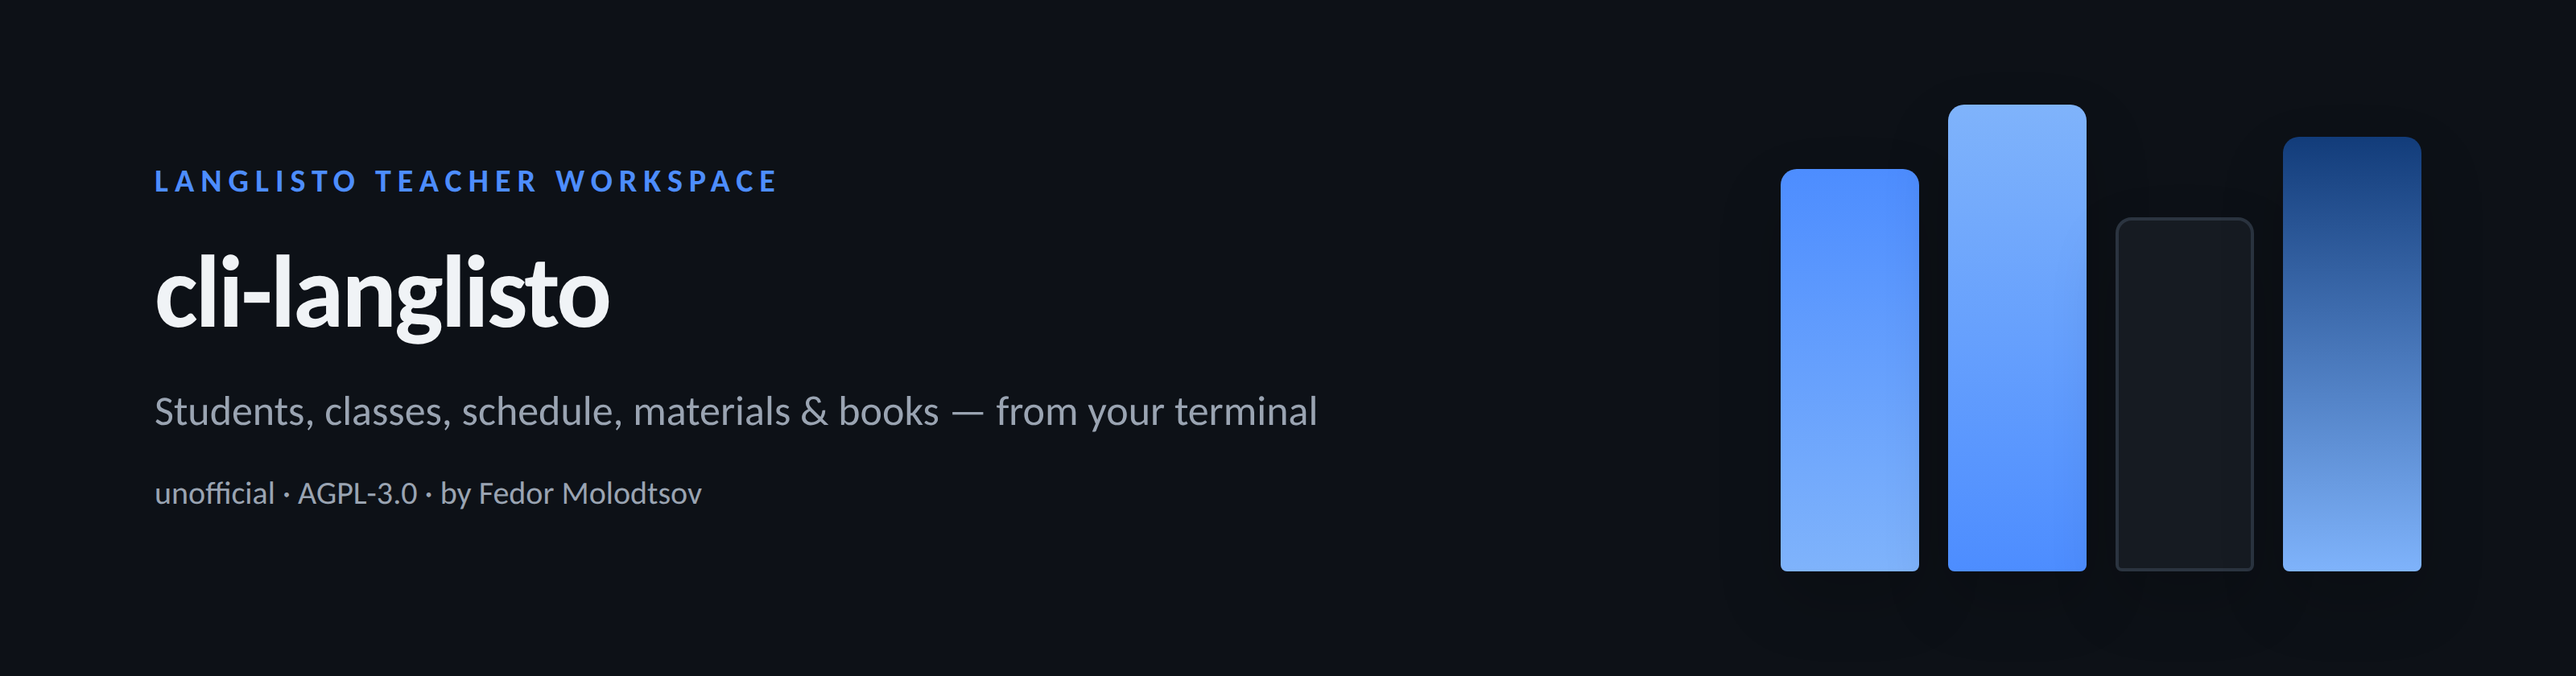
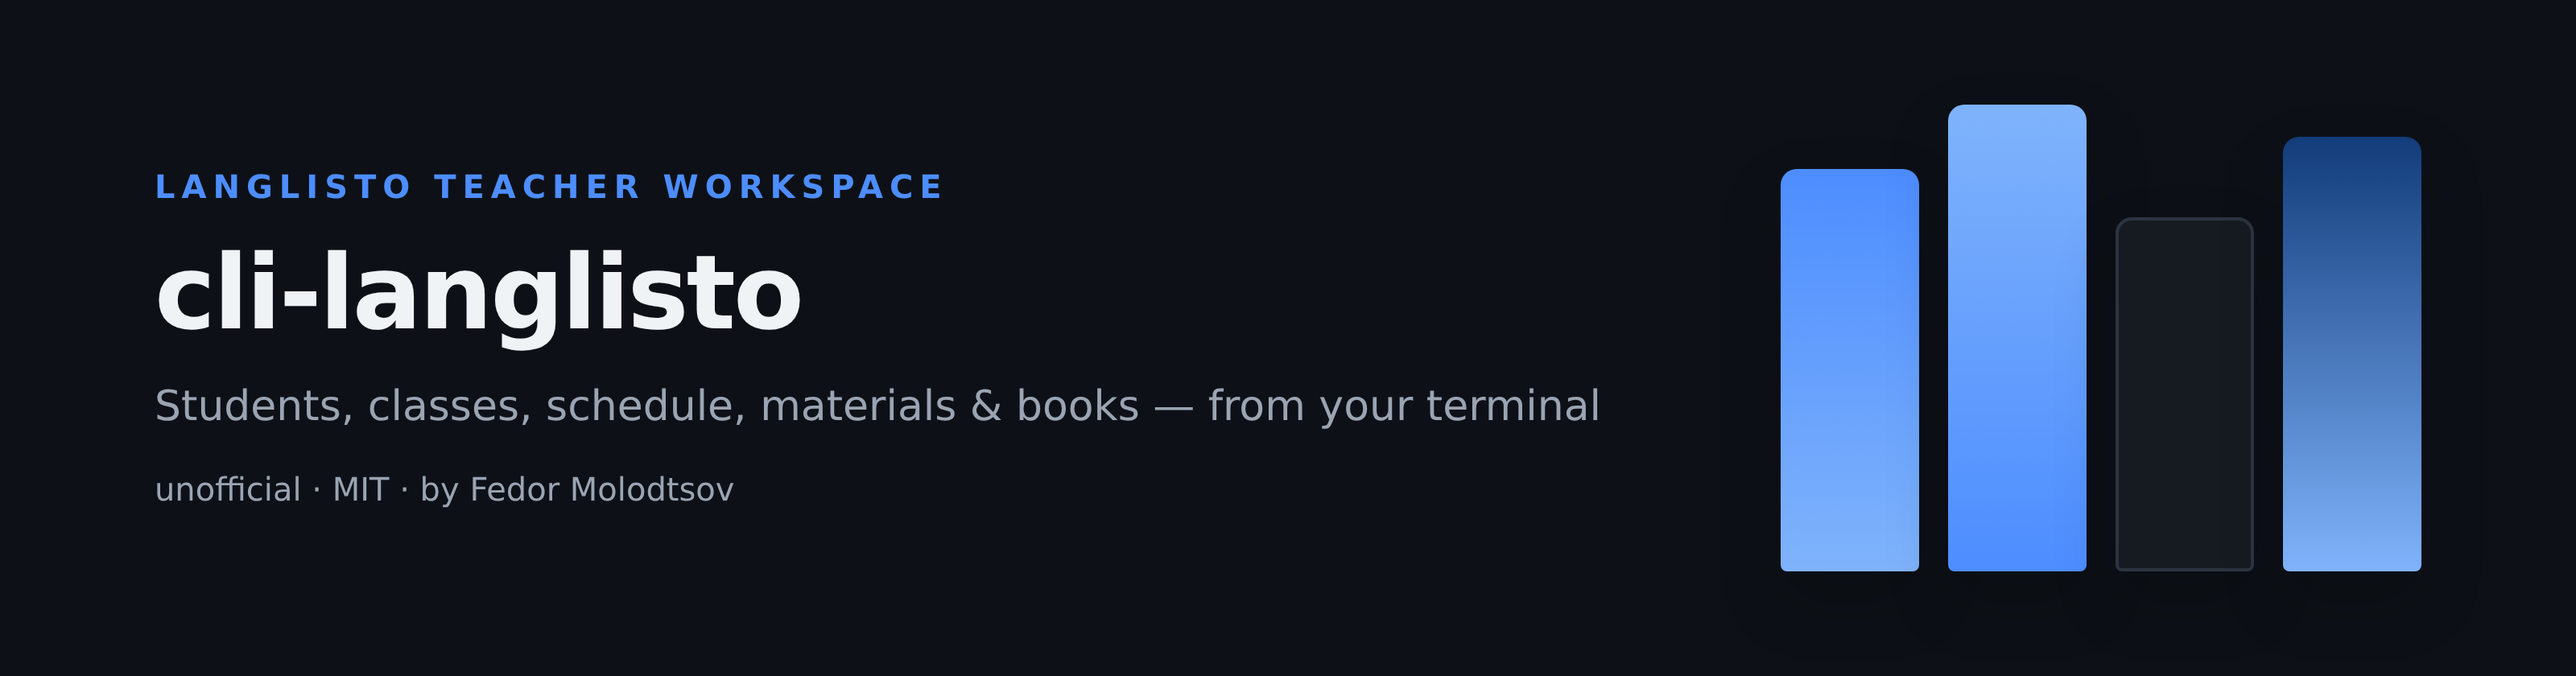
Revert "Update license references to AGPL-3.0"
This reverts commit 355ea96eb08a6220c05207d5e7d6c591bffedfc0.

diff --git a/assets/render_banners.py b/assets/render_banners.py
@@ -29,7 +29,7 @@ TPL = """
     <div class="kicker">LangListo teacher workspace</div>
     <h1>cli-langlisto</h1>
     <div class="sub">Students, classes, schedule, materials &amp; books — from your terminal</div>
-    <div class="by">unofficial · AGPL-3.0 · by Fedor Molodtsov</div>
+    <div class="by">unofficial · MIT · by Fedor Molodtsov</div>
   </div>
   <div class="shelf">
     <div class="book b1"></div><div class="book b2"></div><div class="book b3"></div><div class="book b4"></div>
